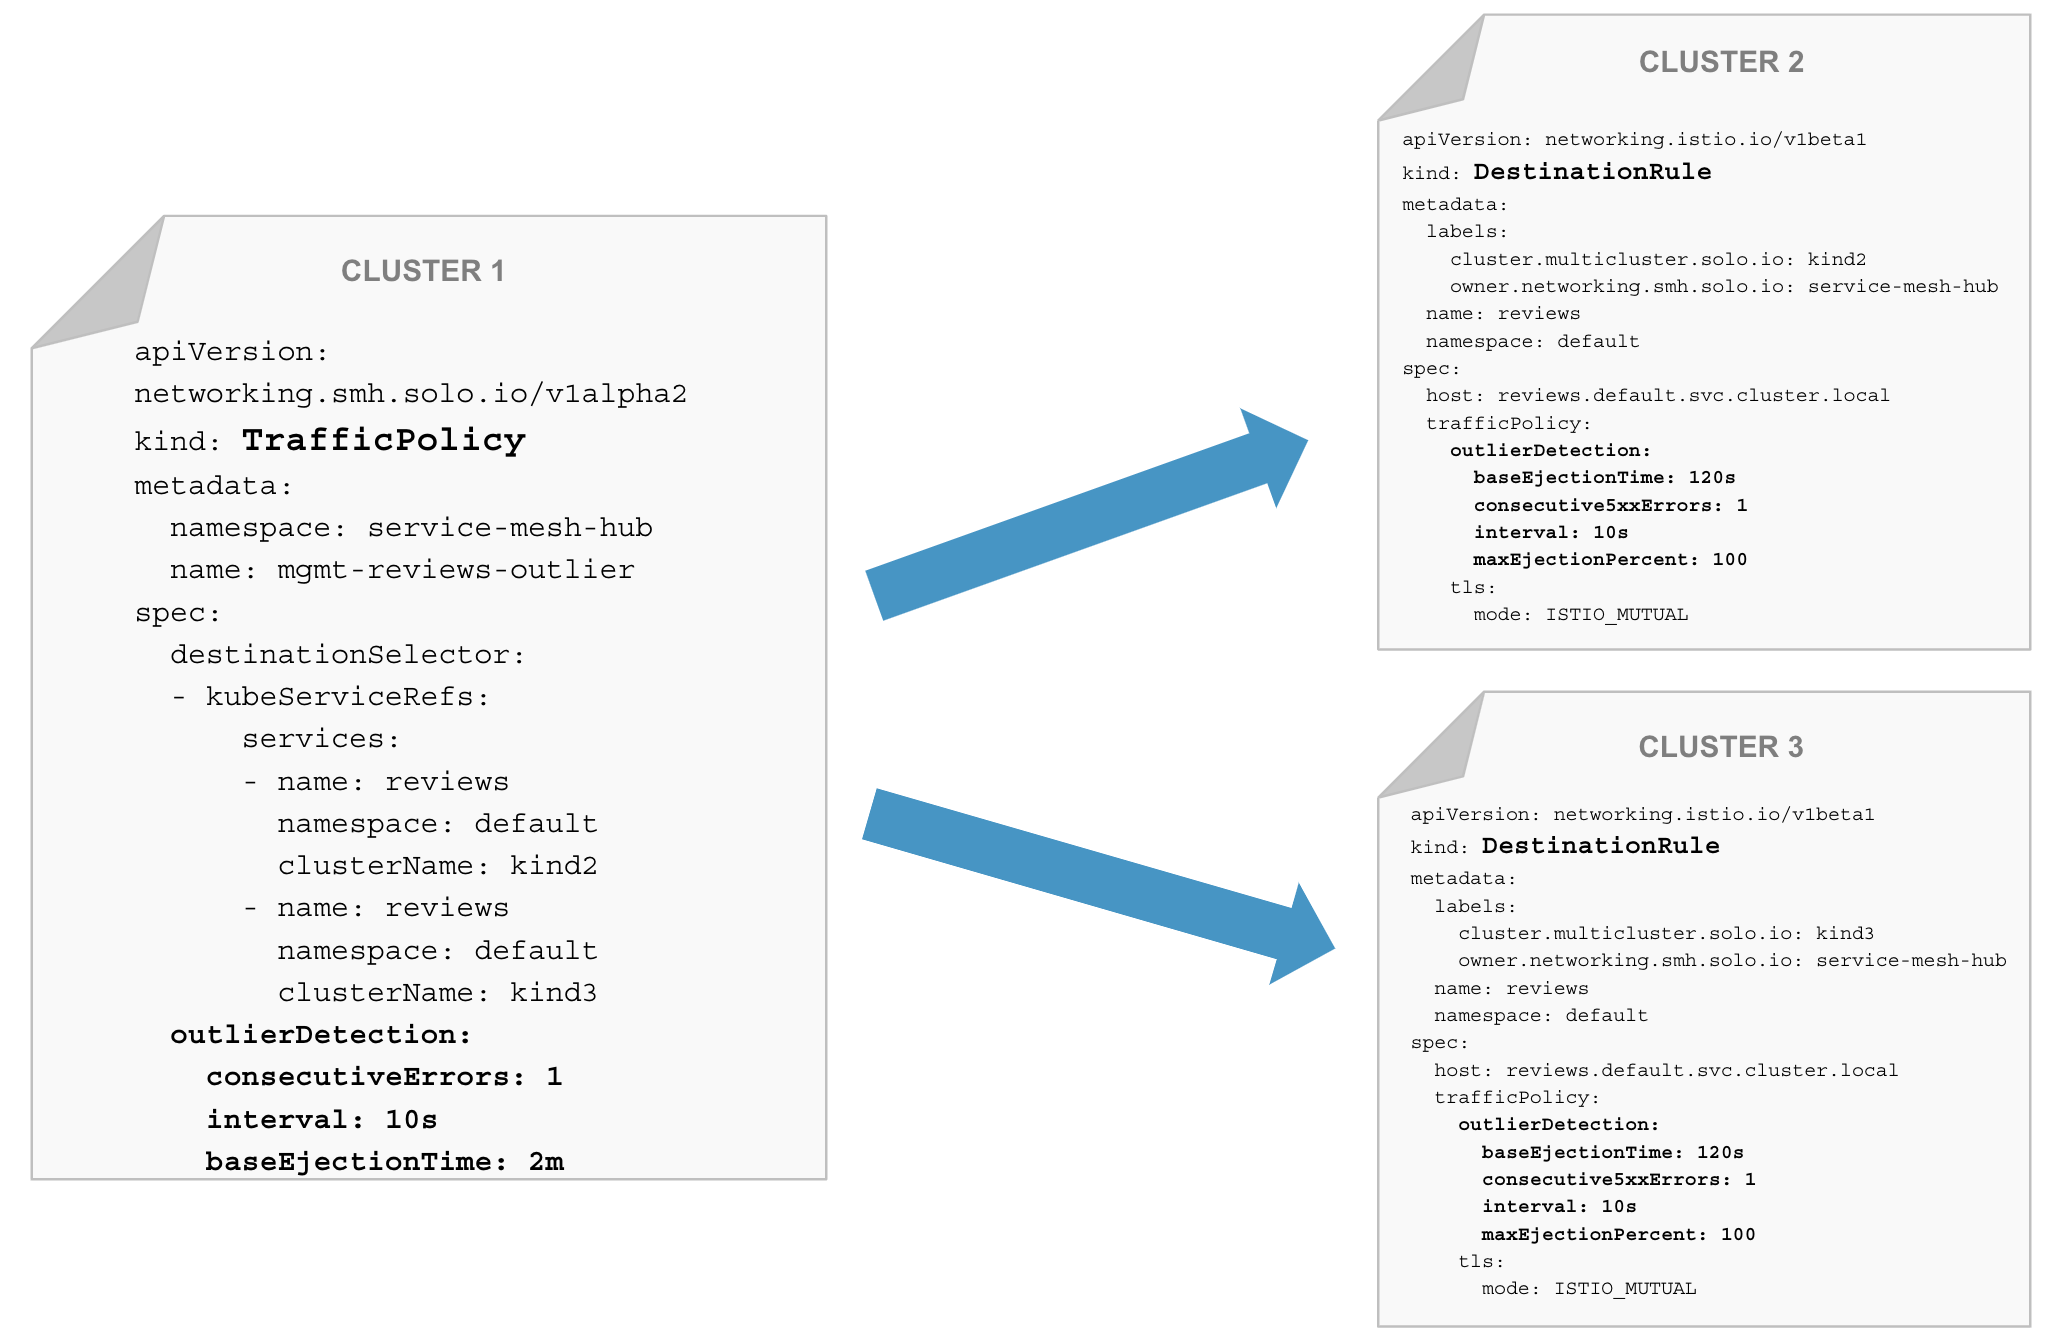
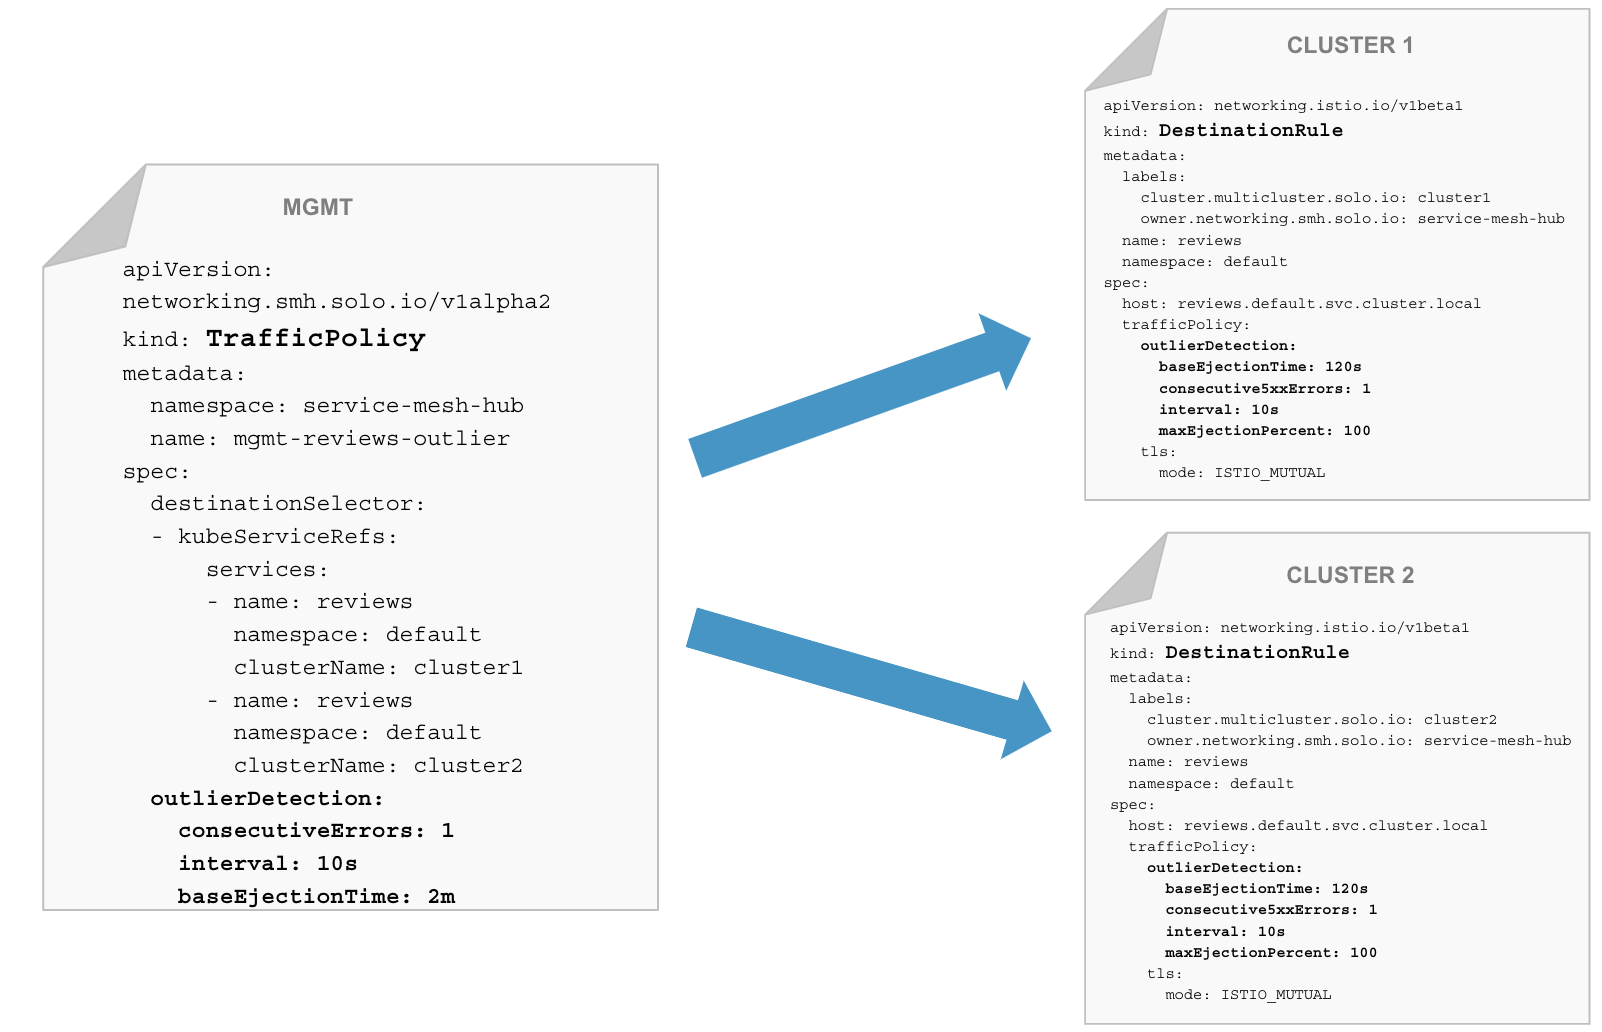
Updating pictures in the SMH workshop

diff --git a/smh/README.md b/smh/README.md
@@ -12,7 +12,7 @@ The goal of this workshop is to show several unique features of the Service Mesh
 
 ## Lab environment
 
-Service Mesh Hub can be run in its own cluster or co-located with an existing mesh.  In this exercise, SMH will run in its own dedicated management Cluster 1, while the two managed Istio meshes will run in separate workload Clusters 2 and 3.
+Service Mesh Hub can be run in its own cluster or co-located with an existing mesh.  In this exercise, SMH will run in its own dedicated management cluster, while the two managed Istio meshes will run in separate clusters.
 
 ![Lab](images/lab.png)
 
